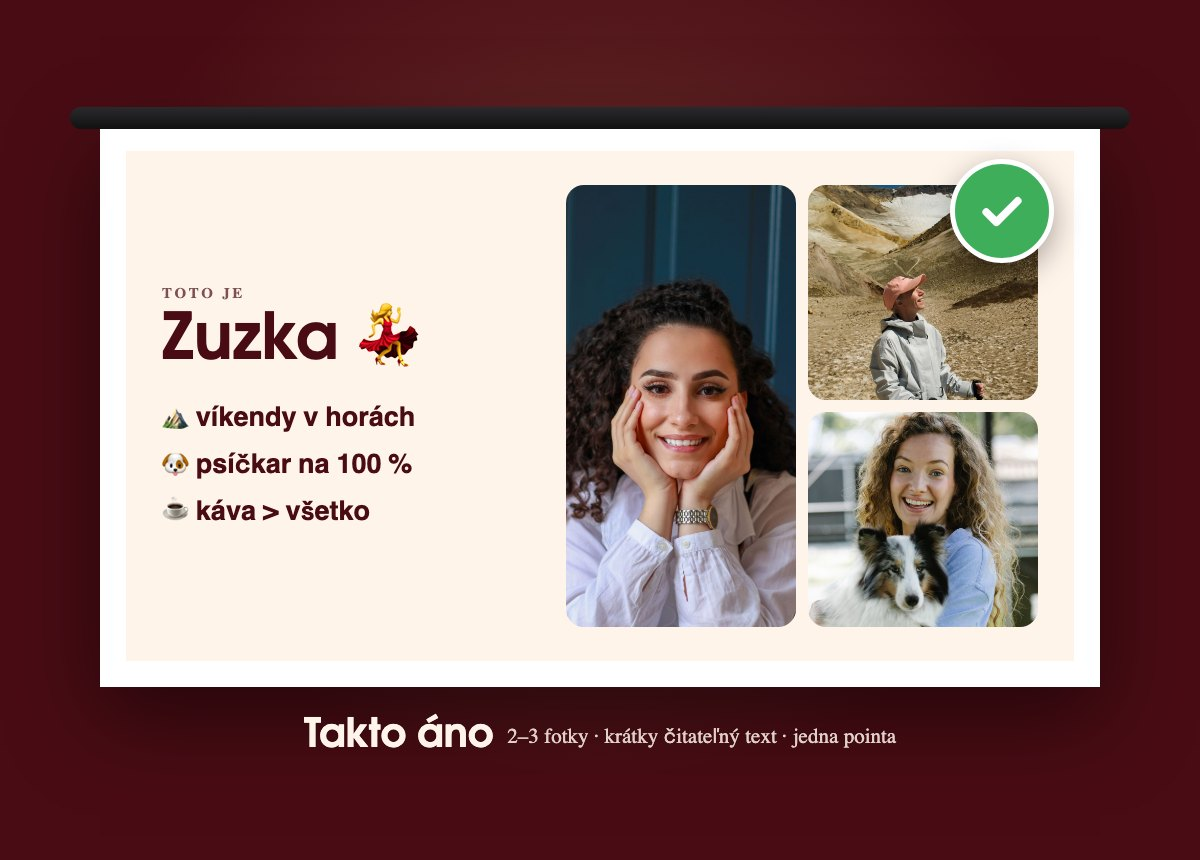
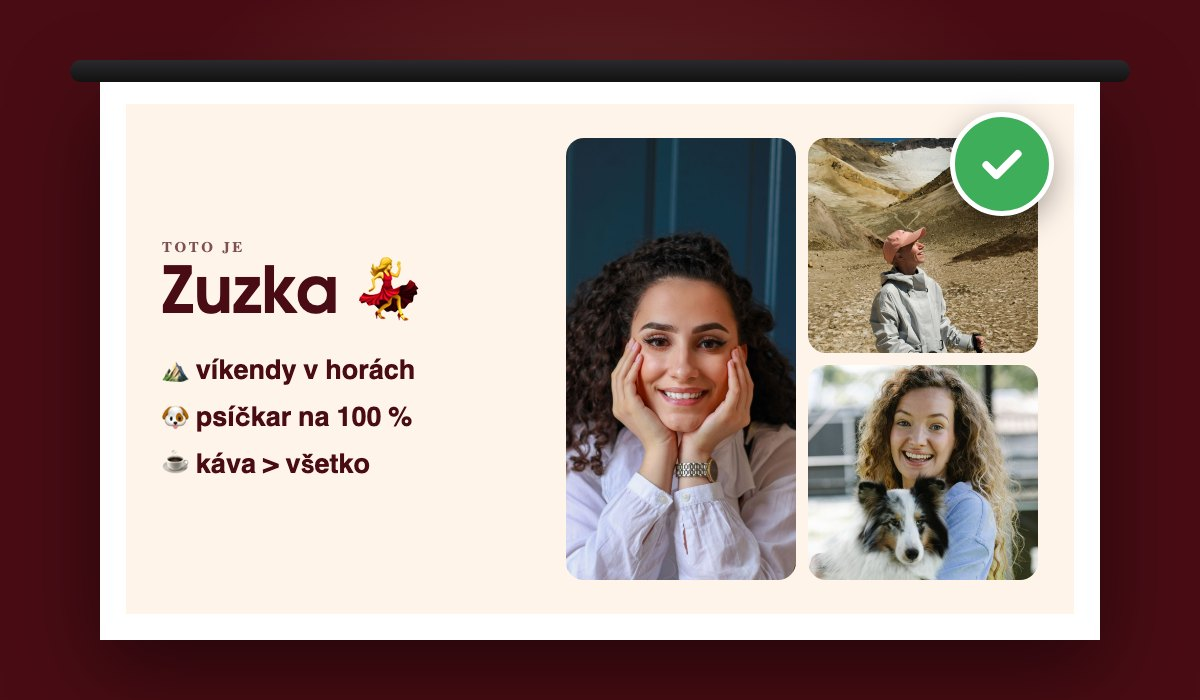
Ukážky prezentácie bez popiskov

diff --git a/pravidla-prezentacie.html b/pravidla-prezentacie.html
@@ -91,8 +91,8 @@
 
           <h2>Ako to vyzerá v praxi</h2>
           <div class="pres-compare">
-            <figure><img src="img/prezentacia-nie.jpg" alt="Nesprávny slajd: dlhý nadpis, odseky drobného textu a deväť malých fotiek – takto nie" width="1200" height="860" loading="lazy"></figure>
-            <figure><img src="img/prezentacia-ano.jpg" alt="Správny slajd: veľké meno Zuzka, tri krátke heslá a tri veľké fotky – takto áno" width="1200" height="860" loading="lazy"></figure>
+            <figure><img src="img/prezentacia-nie.jpg?v=2" alt="Nesprávny slajd: dlhý nadpis, odseky drobného textu a deväť malých fotiek – takto nie" width="1200" height="700" loading="lazy"></figure>
+            <figure><img src="img/prezentacia-ano.jpg?v=2" alt="Správny slajd: veľké meno Zuzka, tri krátke heslá a tri veľké fotky – takto áno" width="1200" height="700" loading="lazy"></figure>
           </div>
 
           <h2>Technické veci</h2>
